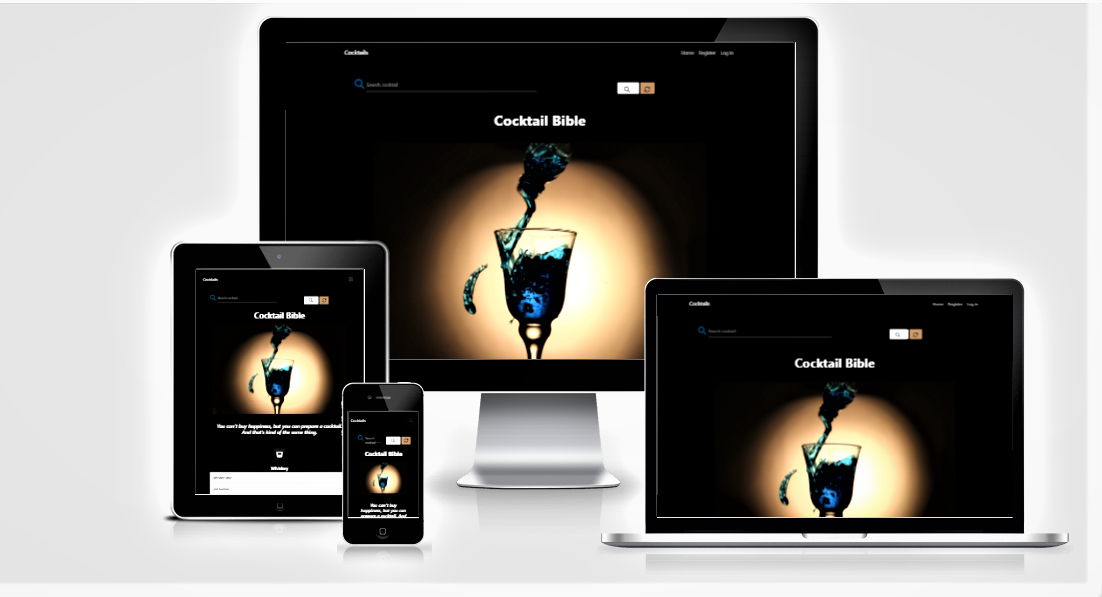
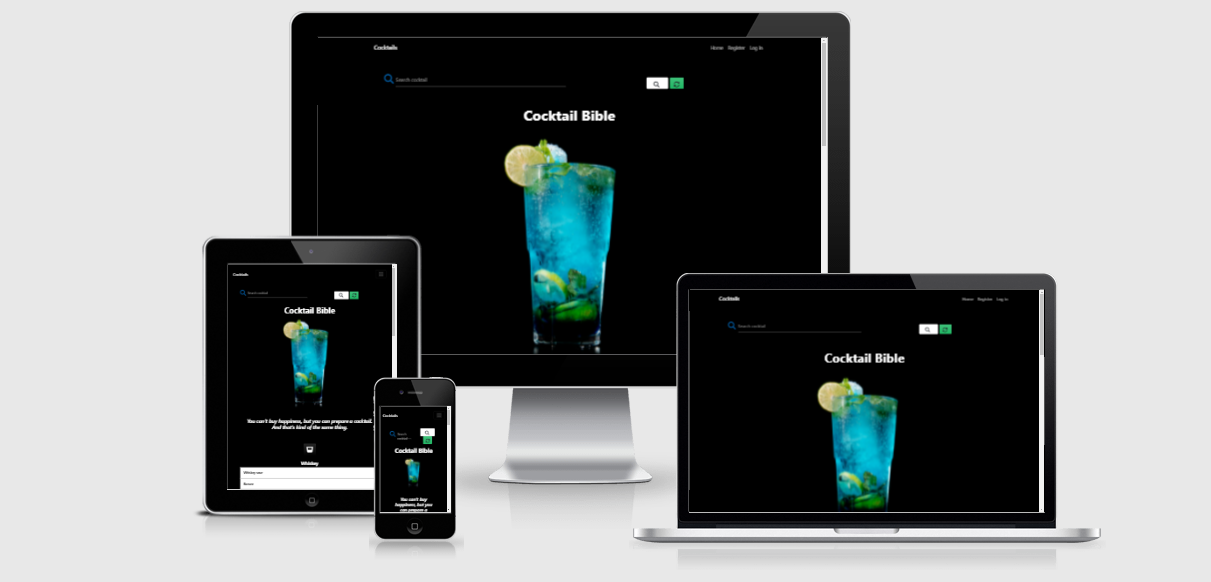
html, css and javaScript validation added.

diff --git a/templates/add_cocktail.html b/templates/add_cocktail.html
@@ -45,10 +45,8 @@
         </div>
         <div class="row">
             <div class="col s12 center-align">
-                <button class="btn-large waves-effect waves-black white text-shadow black-text bold" type="submit">
-                    <h2>Submit
-                        <i class="fas fa-plus-circle"></i>
-                    </h2>
+                <button class="btn-large waves-effect waves-black white text-shadow black-text negrita" type="submit">
+                    <strong>Submit </strong><i class="fas fa-plus-circle"></i>
                 </button>
             </div>
         </div>

diff --git a/templates/edit_cocktail.html b/templates/edit_cocktail.html
@@ -52,9 +52,8 @@
                 <a href="{{ url_for('get_cocktails') }}" class="btn-large red waves-effect waves-black text-shadow">
                     Cancel <i class="fas fa-times-circle right"></i></a>
                 <button class="btn-large waves-effect waves-black white text-shadow black-text bold" type="submit">
-                    <h2>Edit
+                    <strong>Edit</strong>
                         <i class="fas fa-edit"></i>
-                    </h2>
                 </button>
             </div>
         </div>

diff --git a/templates/profile.html b/templates/profile.html
@@ -7,7 +7,7 @@
             <div class="col m6 s12">
                 <div class="card vertical">
                     <div class="card-image">
-                        <img src="https://freesvg.org/img/abstract-user-flat-4.png">
+                        <img src="https://freesvg.org/img/abstract-user-flat-4.png" alt="profile_icon">
                     </div>
                 </div>
             </div>

diff --git a/templates/base.html b/templates/base.html
@@ -77,8 +77,6 @@
     <script src="https://cdnjs.cloudflare.com/ajax/libs/materialize/1.0.0/js/materialize.min.js"></script>
     <!-- Core theme JS-->
     <script src="{{ url_for('static', filename='js/scripts.js')}}"></script>
-    <script>
-      $("#copyright").text(new Date().getFullYear());
-    </script>
+    
     </body>
 </html>

diff --git a/testing.md b/testing.md
@@ -1,0 +1,108 @@
+## Testing ##
+
+- All the features of this project have been manually tested  in order to make sure they respond effectively. Moreover, users can move from page to page since all of them are interconnected. 
+
+
+As part of the testing process this website was tested using:
+ - [W3C Markup Validator](https://validator.w3.org/) 
+ - [Jigsaw W3C CSS Validator](https://jigsaw.w3.org/css-validator/)
+- [Jshint](https://jshint.com/)
+## W3C Markup Validator
+
+
+- ## Base page ##
+
+![Base](Readme-images/base.PNG)
+- ## Home page ##
+
+![Home page](Readme-images/home.PNG)
+
+- ## Add and Edit a cocktail pages ##
+
+![Add/Edit a cocktail](Readme-images/add_cocktail.png)
+
+
+- ## Log in and Register  pages ##
+
+![login and Register](Readme-images/login.PNG)
+
+- ## Profile page ##
+
+![Profile](Readme-images/profile.PNG)
+
+
+
+## W3C CSS Validator
+
+![CSS](Readme-images/css.PNG)
+
+## Js hint Validator
+![JavaScript](Readme-images/java_script.PNG)
+
+ This web has been tested in desktop devices using the following browser:
+
+ - [Mozila fire fox](https://www.mozilla.org/en-US/firefox/new/)
+ - [Opera](https://www.opera.com/)
+ - [Chrome](https://www.google.com/chrome/)
+ - [windows Explorer](https://www.microsoft.com/en-us/edge).
+
+ In all these browsers the apparience, images and responsiveness worked perfectly. 
+
+ 
+
+
+ ## Responsiveness ##
+
+
+This website is responsive. Consequently, it has been developed to  be displayed on any device. 
+The main changes users can evidence when accessing the site on a different device are:
+On devices up to 576 PX  there is not Carousel display in the landing page. 
+
+
+
+As illustrated in the image below, this website has been tested in all devices  available in the Google chrome Developer tool. The results are the followings:
+
+
+![responsiveness](Readme_images/table-0.png)
+
+
+As we can see the website responds effectively in all devices. However, in the desktop version theres is an undesired right-margin in the landing page which still need to be investigated in order to be removed
+## Bugs ##
+
+### Bug 1. ###
+- There is a right margin that cant be removed in the sections that contains the carousel from boostrap.
+
+### Bug 2. ###
+- When restricting the google API my map does not work
+
+### Bug 3. ###
+- In devices  with a width smaller than 780px, the user need to zoon the screen out in order to fit the size of the image to the screen. 
+
+
+## Testing users' stories ##
+### As a guest I want to:
+- **Find the address of the apartment**
+  - If you check the map you can find the location of the flat. However, the exact address is given to the guest when the reservation is confirmed 
+
+- **See images of the apartment**
+  - In the Gallery section people can have access to all the images of the apartment 
+- **Find the instruction on how to arrive to the flat**
+  - Following the google maps direction people can arrive to the flat easily.
+- **See the amenities provided** 
+  - In the section Amenities people can find a list of the most outstanding services found in the flat
+- **Make a reservation** 
+  -  People can contact the flat manager in order to set a reservation or can also make direct reservation through the airb&b wesite which is linked to the site. 
+- **Have direct contact with the owner of the flat.** 
+  - There is a contact form for people to reach the flats owner in order to ask questions or make direct reservations
+- **Spot on a map the location of the flat and places of intrest ATMs, Supermarkets, etc..**
+  - In the map provided in the site people can find relevant information for the visitors such as the supermakets, banks and even the location of the flat
+- **Check the public transportation availability.** 
+  - User can find in the map where are the bustops closes to the flat and which are the routes that take you there. 
+- **have access to its social media**
+  
+  - In the footer the user can find all the links to the social media of the apartment.
+    
+    - [Instagram](https://www.instagram.com/)
+    - [Airb&b](https://www.airb&b.com/)
+   
+ 

diff --git a/README.md b/README.md
@@ -241,14 +241,19 @@ In order to display the recipes collapsible boxes taken from materializedcss:
  The data base used fot his porject was mongodb :
  - [Mongodb](https://www.mongodb.com/)
 
-## 8. Media
-The photos used in this site were obtained from :
+ The search bar was built using materializedcss form :
+ - [Search bar](https://materializecss.com/text-inputs.html)
 
-- [Unsplash](https://unsplash.com/photos/-EvvsegVoUE)
+
+## 8. Media
+The photo used in this site was obtained from :
+
+- [Unsplash](https://unsplash.com/photos/MzsWrM8DSCU)
 
 ## 9. Acknowledgements
 
-- I received inspiration for this project from the previous exercises made during the course. Specially, from the Love-running and Whiskey lovers examples. 
+- I received inspiration for this project from the previous miniproject(task-manager) covered in the previous unit.
+
 - Thanks to Precious Ijege for his mentoring while developing this project. His advices, patience and support were of high relevance to carry out this project. 
 
 
